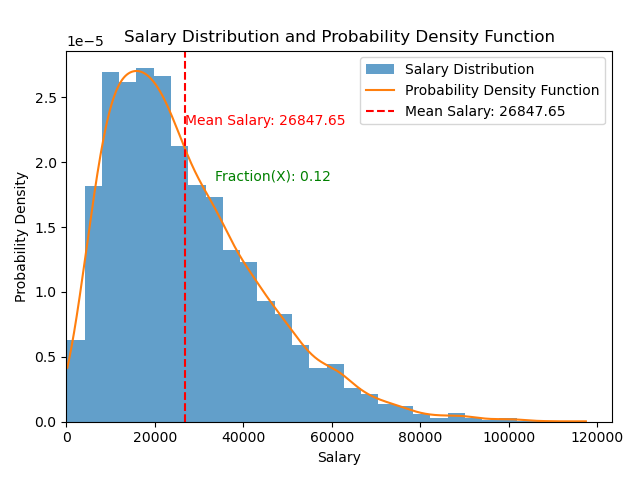
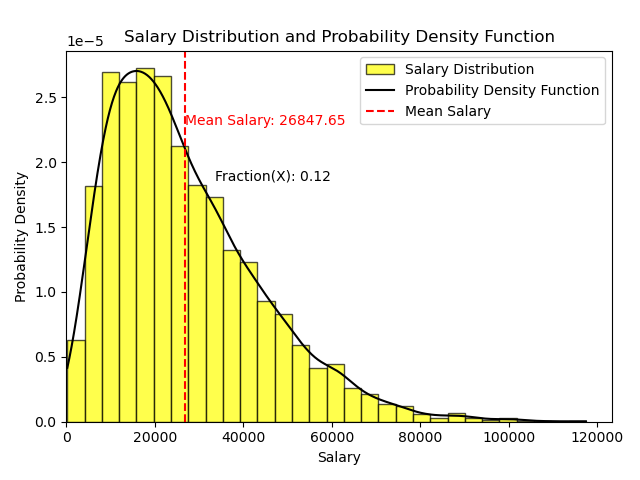
edit

diff --git a/22081746.py b/22081746.py
@@ -33,26 +33,25 @@ fraction_between = np.sum((data['Salary'] >= lower_bound) & (
 
 
 def getStatisticalDescription(data):
-    mean = np.mean(data)
     median = np.median(data)
     mode = data.mode()
     std = data.std()
     kurtosis = data.kurtosis()
     skewness = data.skew()
     data_range = max(data) - min(data)
-    return mean, mode, median, std, kurtosis, skewness, data_range, max(data), min(data)
+    return mode, median, std, kurtosis, skewness, data_range, max(data), min(data)
 
 
 # Obtain statistical descriptors
-mean, mode, median, std, kurtosis, skewness, data_range, max_val, min_val = getStatisticalDescription(
+mode, median, std, kurtosis, skewness, data_range, max_val, min_val = getStatisticalDescription(
     data['Salary'])
 
 # Display the statistical descriptors
-print(f"mean: {mean}, mode: {mode}, median: {median}, std: {std}, kurtosis: {kurtosis}, skewness: {skewness}, range: {data_range}, max: {max_val}, min: {min_val}")
+print(f"mode: {mode}, median: {median}, std: {std}, kurtosis: {kurtosis}, skewness: {skewness}, range: {data_range}, max: {max_val}, min: {min_val}")
 
 # Plot the mean and fraction on the graph
 plt.axvline(mean_salary, color='red', linestyle='--',
-            label=f'Mean Salary: {mean_salary:.2f}')
+            label=f'Mean Salary')
 plt.text(mean_salary, plt.ylim()[1]*0.8,
          f'Mean Salary: {mean_salary:.2f}', color='red')
 plt.text(upper_bound, plt.ylim()[
